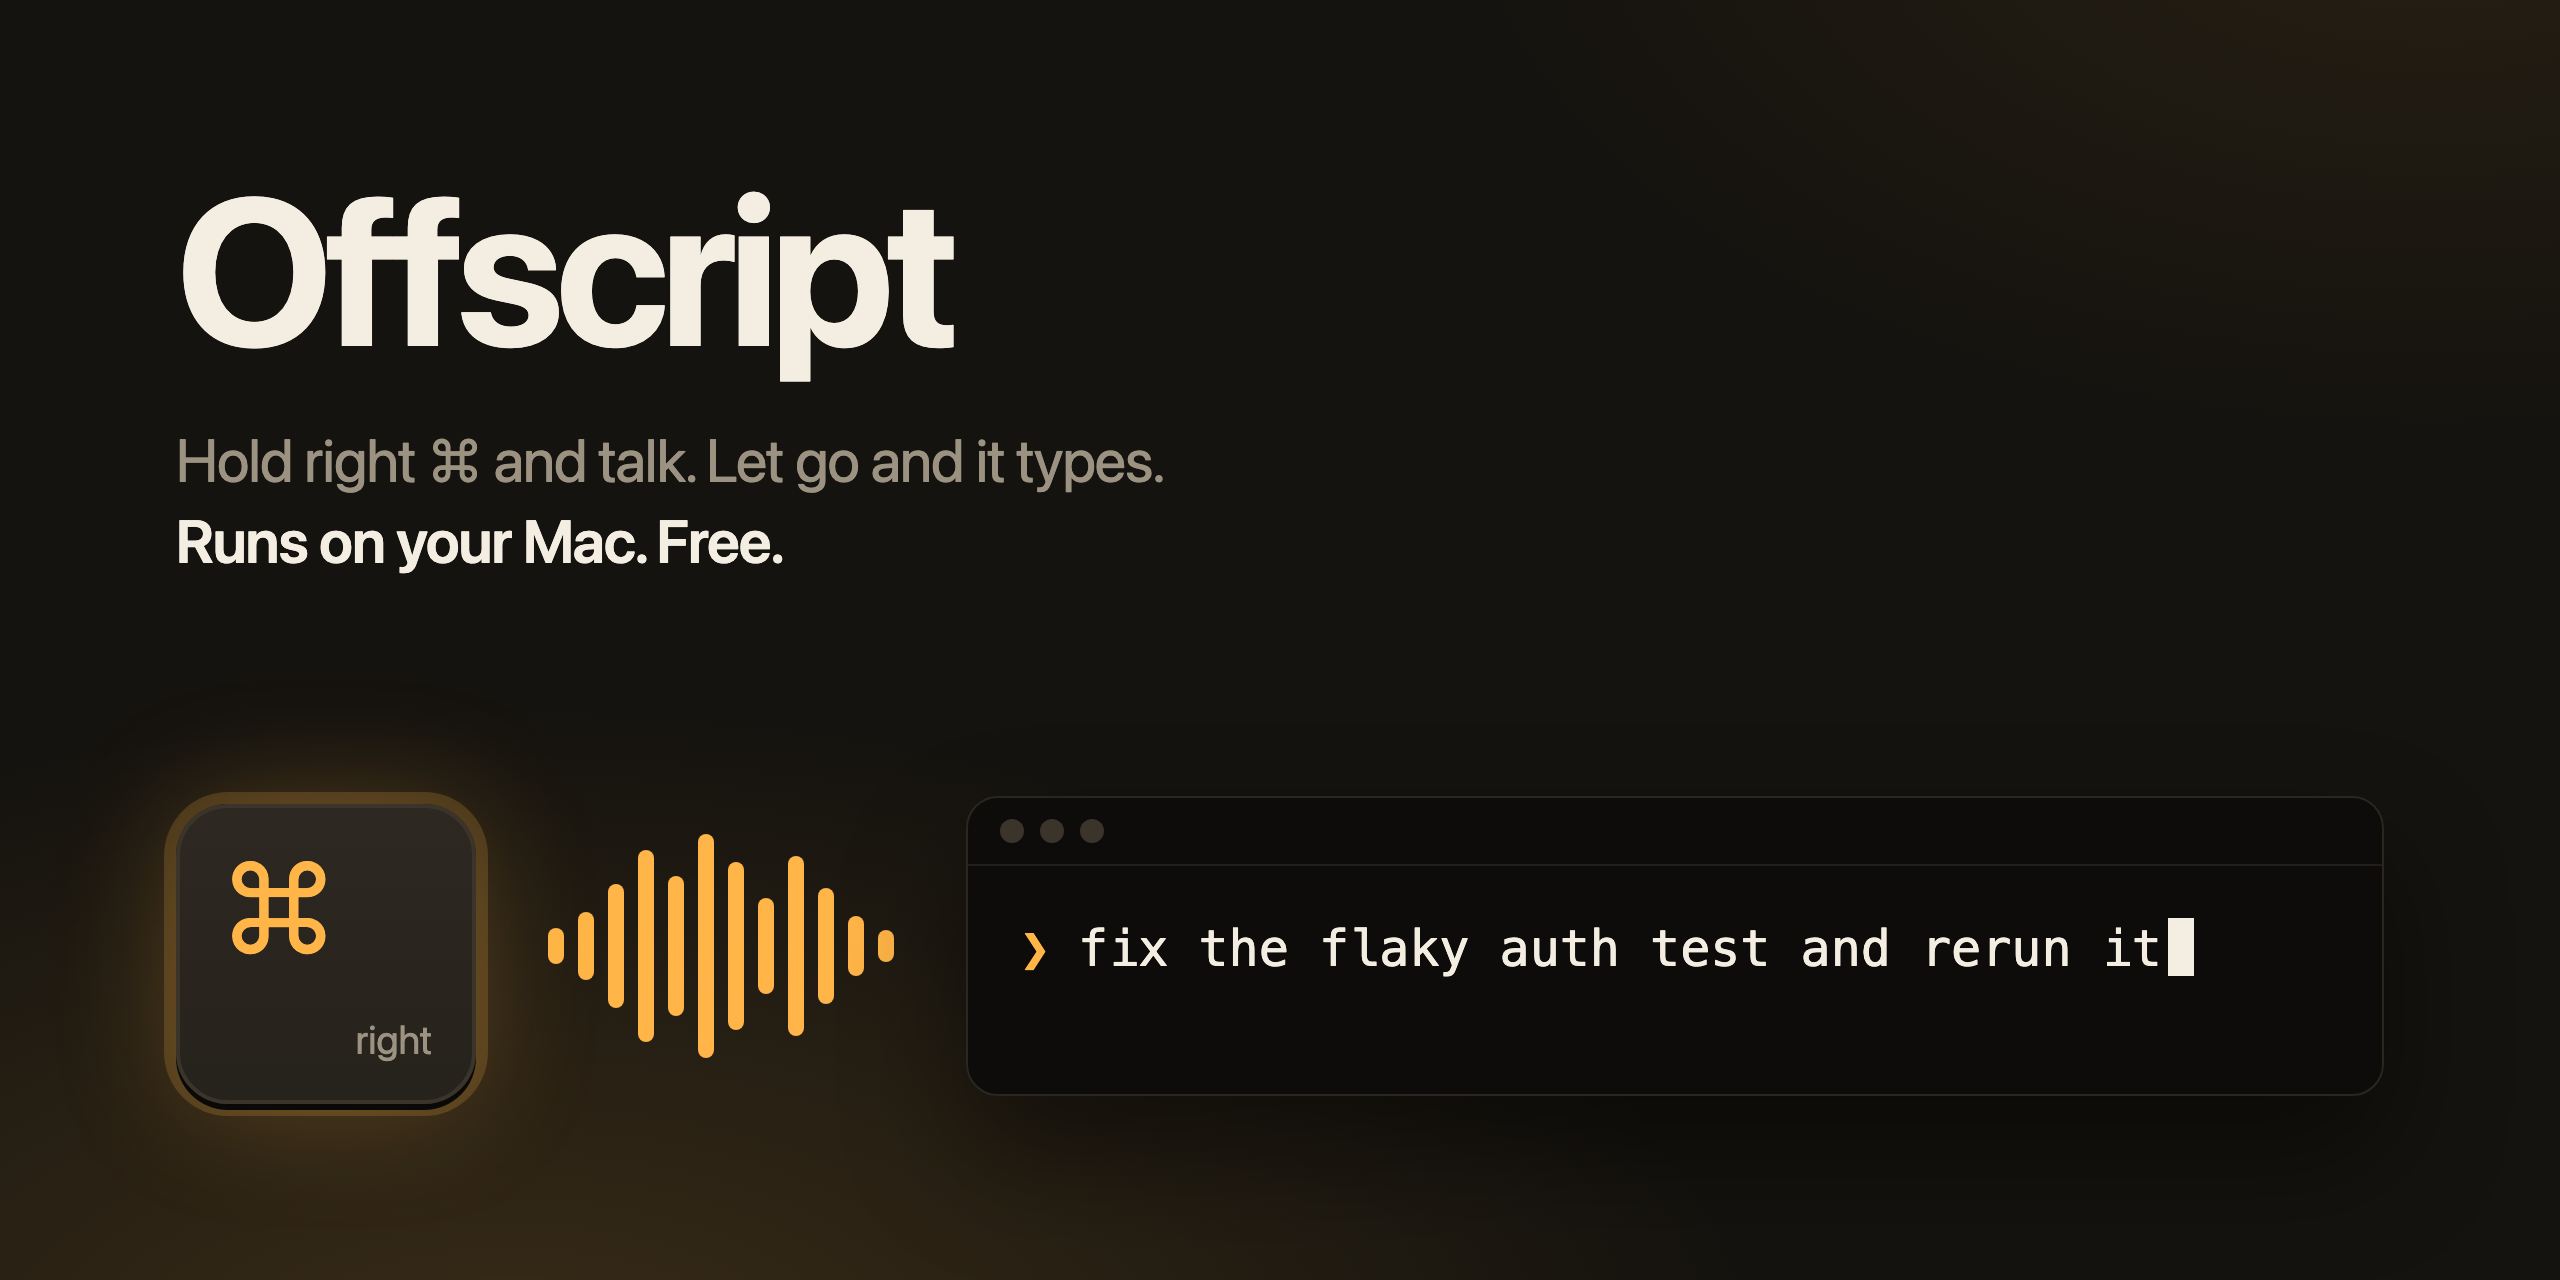
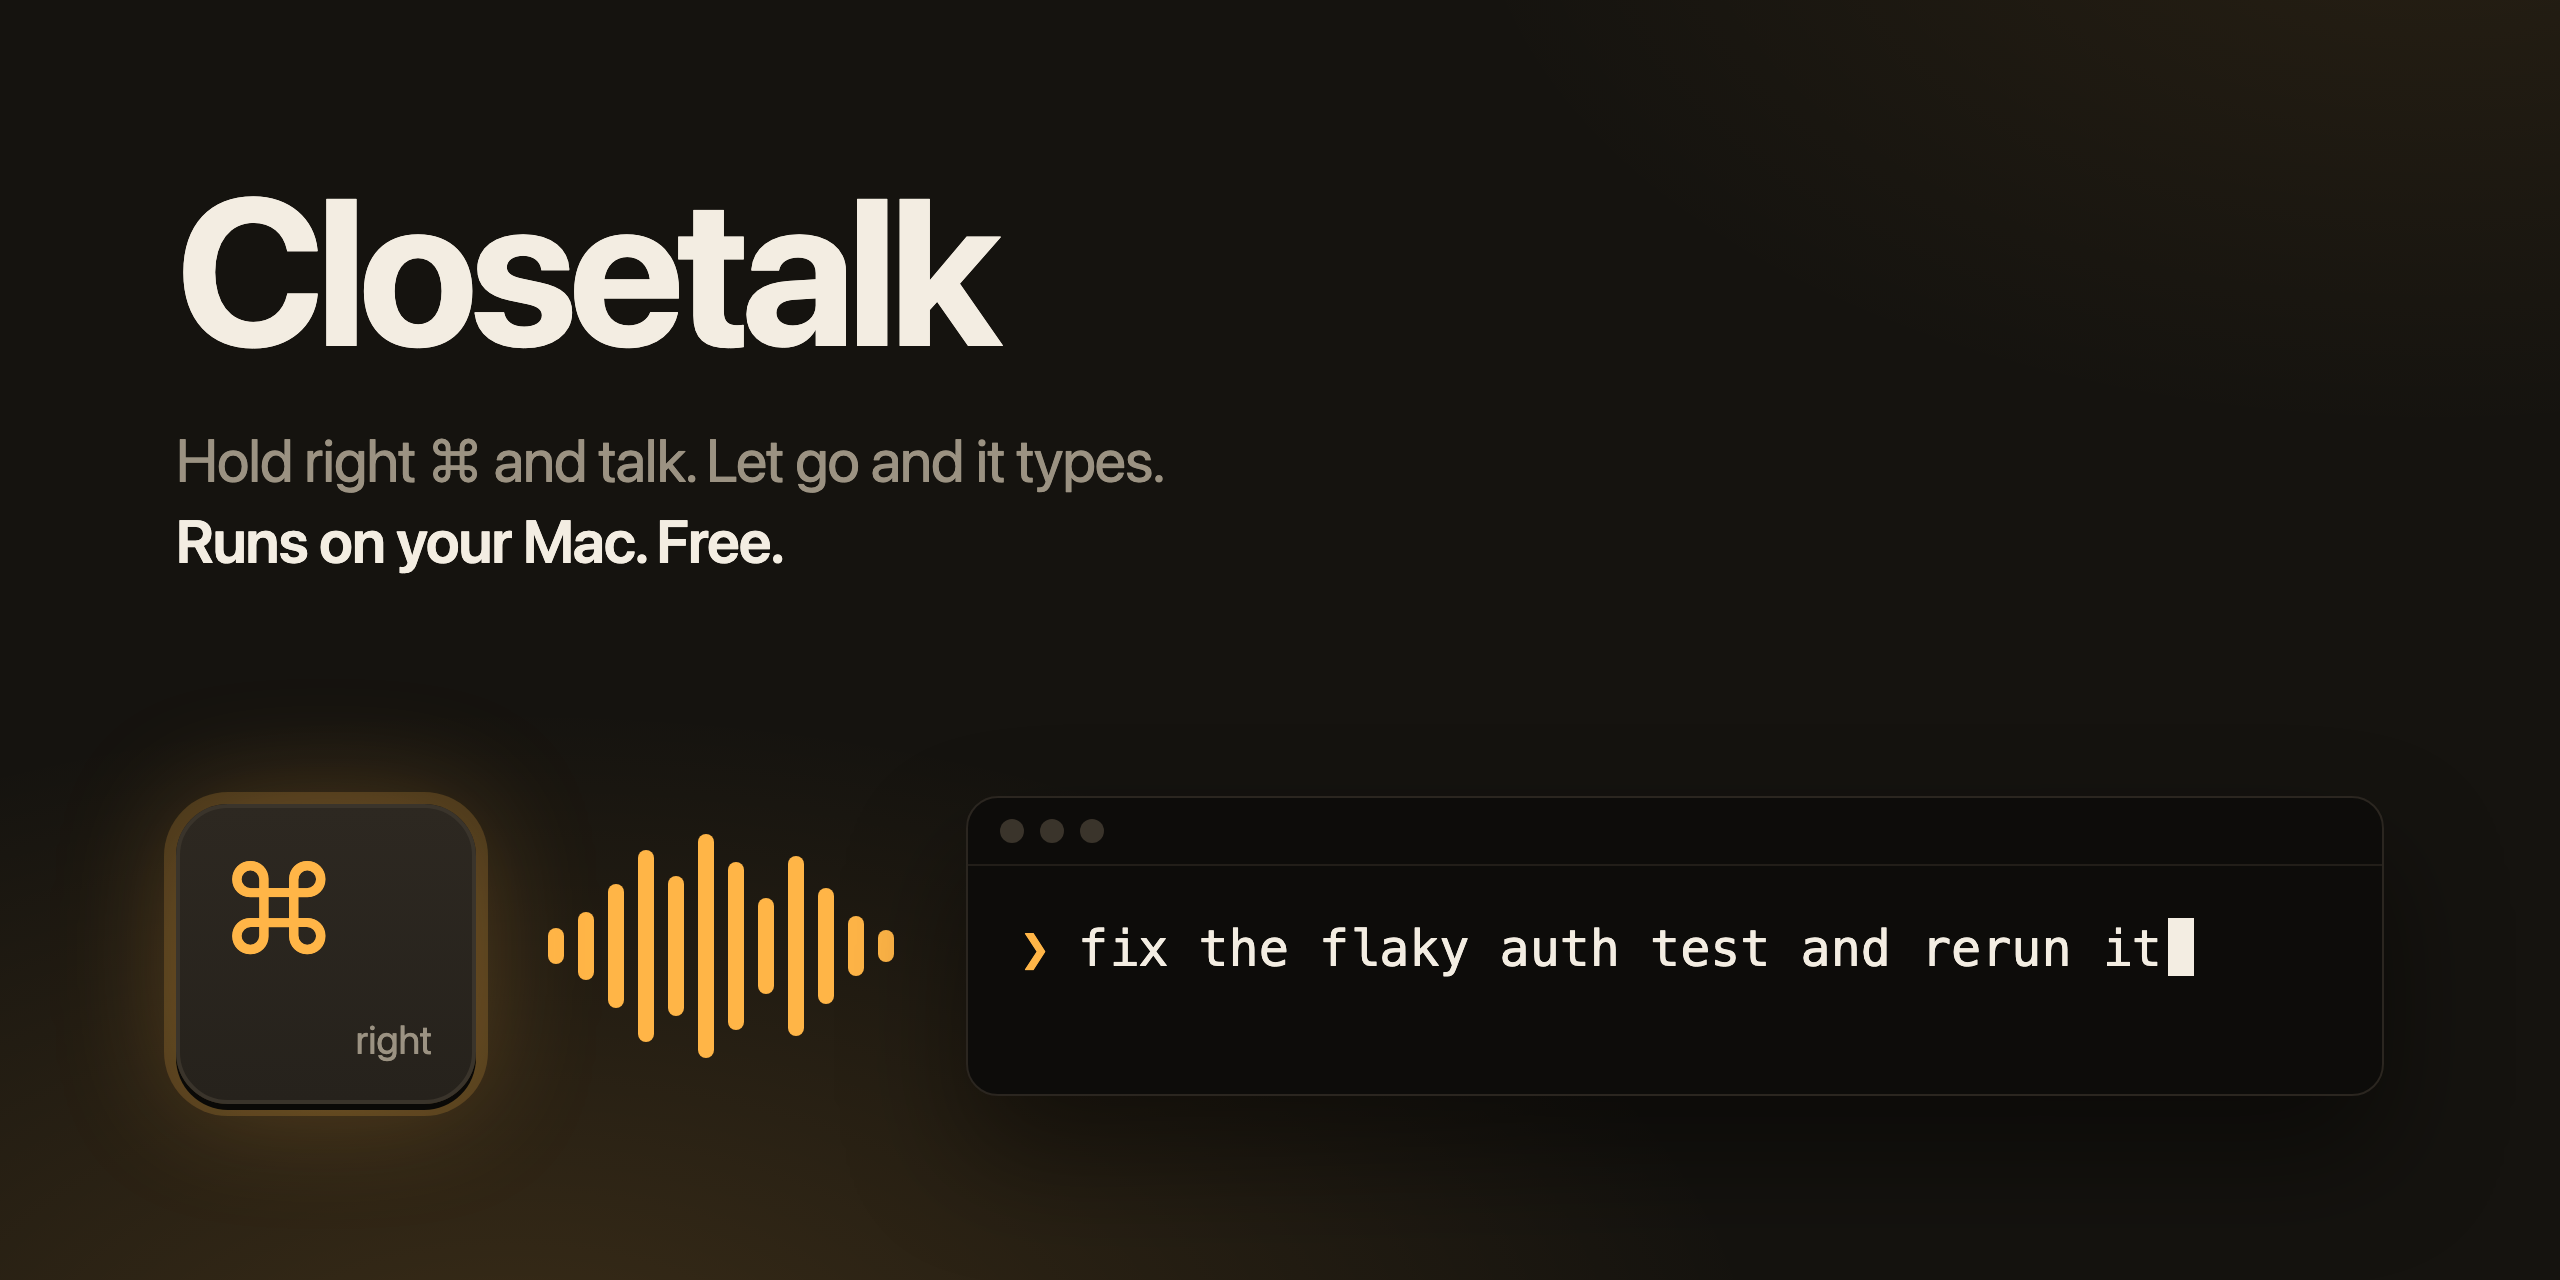
refactor: rename the app to Closetalk (#17)
* docs: add PRODUCT.md with product context for brand work

Records the audience, the free-and-local position, the brand surfaces in scope, the Closetalk
name and the evidence copy may use. Written with impeccable init.

* refactor: rename the app to Closetalk

Renames the targets, folders, bundle ID (dev.gsajith.Closetalk), signing identity, log subsystem,
release asset name, README and cover. Builds will need mic and Accessibility granted again, and
the model downloads and compiles once more under the new bundle ID.

---------

Changed region(s): [[0.0938, 0.1562, 0.4062, 0.3125]]

diff --git a/Package.swift b/Package.swift
@@ -2,23 +2,23 @@
 import PackageDescription
 
 let package = Package(
-    name: "Offscript",
+    name: "Closetalk",
     platforms: [.macOS(.v14)],
     dependencies: [
         .package(url: "https://github.com/argmaxinc/WhisperKit.git", from: "1.1.1"),
     ],
     targets: [
         // Pure logic, unit tested.
-        .target(name: "OffscriptCore"),
+        .target(name: "ClosetalkCore"),
         // macOS glue: event tap, audio, WhisperKit, paste, menu bar.
         .executableTarget(
-            name: "Offscript",
+            name: "Closetalk",
             dependencies: [
-                "OffscriptCore",
+                "ClosetalkCore",
                 .product(name: "WhisperKit", package: "WhisperKit"),
             ]
         ),
-        .testTarget(name: "OffscriptCoreTests", dependencies: ["OffscriptCore"]),
+        .testTarget(name: "ClosetalkCoreTests", dependencies: ["ClosetalkCore"]),
     ],
     swiftLanguageModes: [.v5]
 )

diff --git a/Sources/Closetalk/DictationController.swift b/Sources/Closetalk/DictationController.swift
@@ -1,6 +1,6 @@
 import AppKit
 import AVFoundation
-import OffscriptCore
+import ClosetalkCore
 import os
 
 /// Connects the hotkey to recording, transcription, and pasting, and keeps the menu bar icon in sync.
@@ -9,7 +9,7 @@ import os
 final class DictationController {
     /// Clips shorter than this are almost always accidental.
     private static let minimumSamples = 16_000 / 4
-    private static let log = Logger(subsystem: "dev.gsajith.Offscript", category: "dictation")
+    private static let log = Logger(subsystem: "dev.gsajith.Closetalk", category: "dictation")
     /// "Talk now" once the mic is live, and a different sound when recording ends.
     private static let startSound = NSSound(named: "Tink")
     private static let stopSound = NSSound(named: "Pop")

diff --git a/Sources/Closetalk/Recorder.swift b/Sources/Closetalk/Recorder.swift
@@ -7,8 +7,8 @@ import AVFoundation
 /// The mic is only open between start() and stop(), so the macOS mic indicator stays off when idle.
 final class Recorder: NSObject, AVCaptureAudioDataOutputSampleBufferDelegate {
     /// Starting and stopping block for tens of milliseconds, so they run here instead of the main thread.
-    private let sessionQueue = DispatchQueue(label: "Offscript.Recorder.session")
-    private let bufferQueue = DispatchQueue(label: "Offscript.Recorder.buffers")
+    private let sessionQueue = DispatchQueue(label: "Closetalk.Recorder.session")
+    private let bufferQueue = DispatchQueue(label: "Closetalk.Recorder.buffers")
     private var session: AVCaptureSession?  // sessionQueue only
 
     private let lock = NSLock()

diff --git a/Sources/Closetalk/MenuBarController.swift b/Sources/Closetalk/MenuBarController.swift
@@ -1,5 +1,5 @@
 import AppKit
-import OffscriptCore
+import ClosetalkCore
 import ServiceManagement
 
 enum AppState {
@@ -32,7 +32,7 @@ final class MenuBarController: NSObject {
         microphoneItem.submenu = NSMenu()
         menu.addItem(microphoneItem)
         menu.addItem(loginItem)
-        menu.addItem(NSMenuItem(title: "Quit Offscript", action: #selector(NSApplication.terminate(_:)), keyEquivalent: "q"))
+        menu.addItem(NSMenuItem(title: "Quit Closetalk", action: #selector(NSApplication.terminate(_:)), keyEquivalent: "q"))
         menu.delegate = self
         item.menu = menu
         update(.loadingModel(progress: nil))

diff --git a/Sources/Closetalk/HotkeyMonitor.swift b/Sources/Closetalk/HotkeyMonitor.swift
@@ -1,5 +1,5 @@
 import AppKit
-import OffscriptCore
+import ClosetalkCore
 
 /// Marks events we post ourselves (the Cmd+V paste) so the tap can skip them.
 let syntheticEventTag: Int64 = 0x4C57
@@ -50,7 +50,7 @@ final class HotkeyMonitor {
             CGEvent.tapEnable(tap: tap, enable: true)
             CFRunLoopRun()
         }
-        thread.name = "Offscript.HotkeyTap"
+        thread.name = "Closetalk.HotkeyTap"
         thread.qualityOfService = .userInteractive
         thread.start()
         return true

diff --git a/Sources/Closetalk/main.swift b/Sources/Closetalk/main.swift
@@ -1,6 +1,6 @@
 import AppKit
 
-// Debug path: `Offscript --transcribe <file>` prints the transcript and timing, then exits.
+// Debug path: `Closetalk --transcribe <file>` prints the transcript and timing, then exits.
 if CommandLine.arguments.count == 3, CommandLine.arguments[1] == "--transcribe" {
     let path = CommandLine.arguments[2]
     let done = DispatchSemaphore(value: 0)

diff --git a/Sources/Closetalk/Transcriber.swift b/Sources/Closetalk/Transcriber.swift
@@ -9,7 +9,7 @@ actor Transcriber {
 
     private static var baseFolder: URL {
         FileManager.default.urls(for: .applicationSupportDirectory, in: .userDomainMask)[0]
-            .appending(path: "Offscript/models")
+            .appending(path: "Closetalk/models")
     }
 
     /// Where WhisperKit's downloader puts this variant under baseFolder.

diff --git a/Tests/ClosetalkCoreTests/MicrophoneChoiceTests.swift b/Tests/ClosetalkCoreTests/MicrophoneChoiceTests.swift
@@ -1,5 +1,5 @@
 import XCTest
-@testable import OffscriptCore
+@testable import ClosetalkCore
 
 final class MicrophoneChoiceTests: XCTestCase {
     let builtIn = Microphone(uid: "BuiltInMic", name: "MacBook Pro Microphone", isBuiltIn: true)

diff --git a/assets/src/cover.html b/assets/src/cover.html
@@ -70,7 +70,7 @@
 </head>
 <body>
   <div class="title">
-    <h1>Offscript</h1>
+    <h1>Closetalk</h1>
     <p class="tagline">Hold right ⌘ and talk. Let go and it types.<br><b>Runs on your Mac. Free.</b></p>
   </div>
 

diff --git a/Tests/ClosetalkCoreTests/TranscriptCleanerTests.swift b/Tests/ClosetalkCoreTests/TranscriptCleanerTests.swift
@@ -1,5 +1,5 @@
 import XCTest
-@testable import OffscriptCore
+@testable import ClosetalkCore
 
 final class TranscriptCleanerTests: XCTestCase {
     func testRemovesLeadingFillerAndCapitalizes() {

diff --git a/Sources/Closetalk/MicrophoneSettings.swift b/Sources/Closetalk/MicrophoneSettings.swift
@@ -1,6 +1,6 @@
 import AVFoundation
 import CoreAudio
-import OffscriptCore
+import ClosetalkCore
 
 /// Lists microphones and stores the user's choice in UserDefaults.
 enum MicrophoneSettings {

diff --git a/Tests/ClosetalkCoreTests/HotkeyStateMachineTests.swift b/Tests/ClosetalkCoreTests/HotkeyStateMachineTests.swift
@@ -1,5 +1,5 @@
 import XCTest
-@testable import OffscriptCore
+@testable import ClosetalkCore
 
 final class HotkeyStateMachineTests: XCTestCase {
     func testHoldThenReleaseFinishes() {
